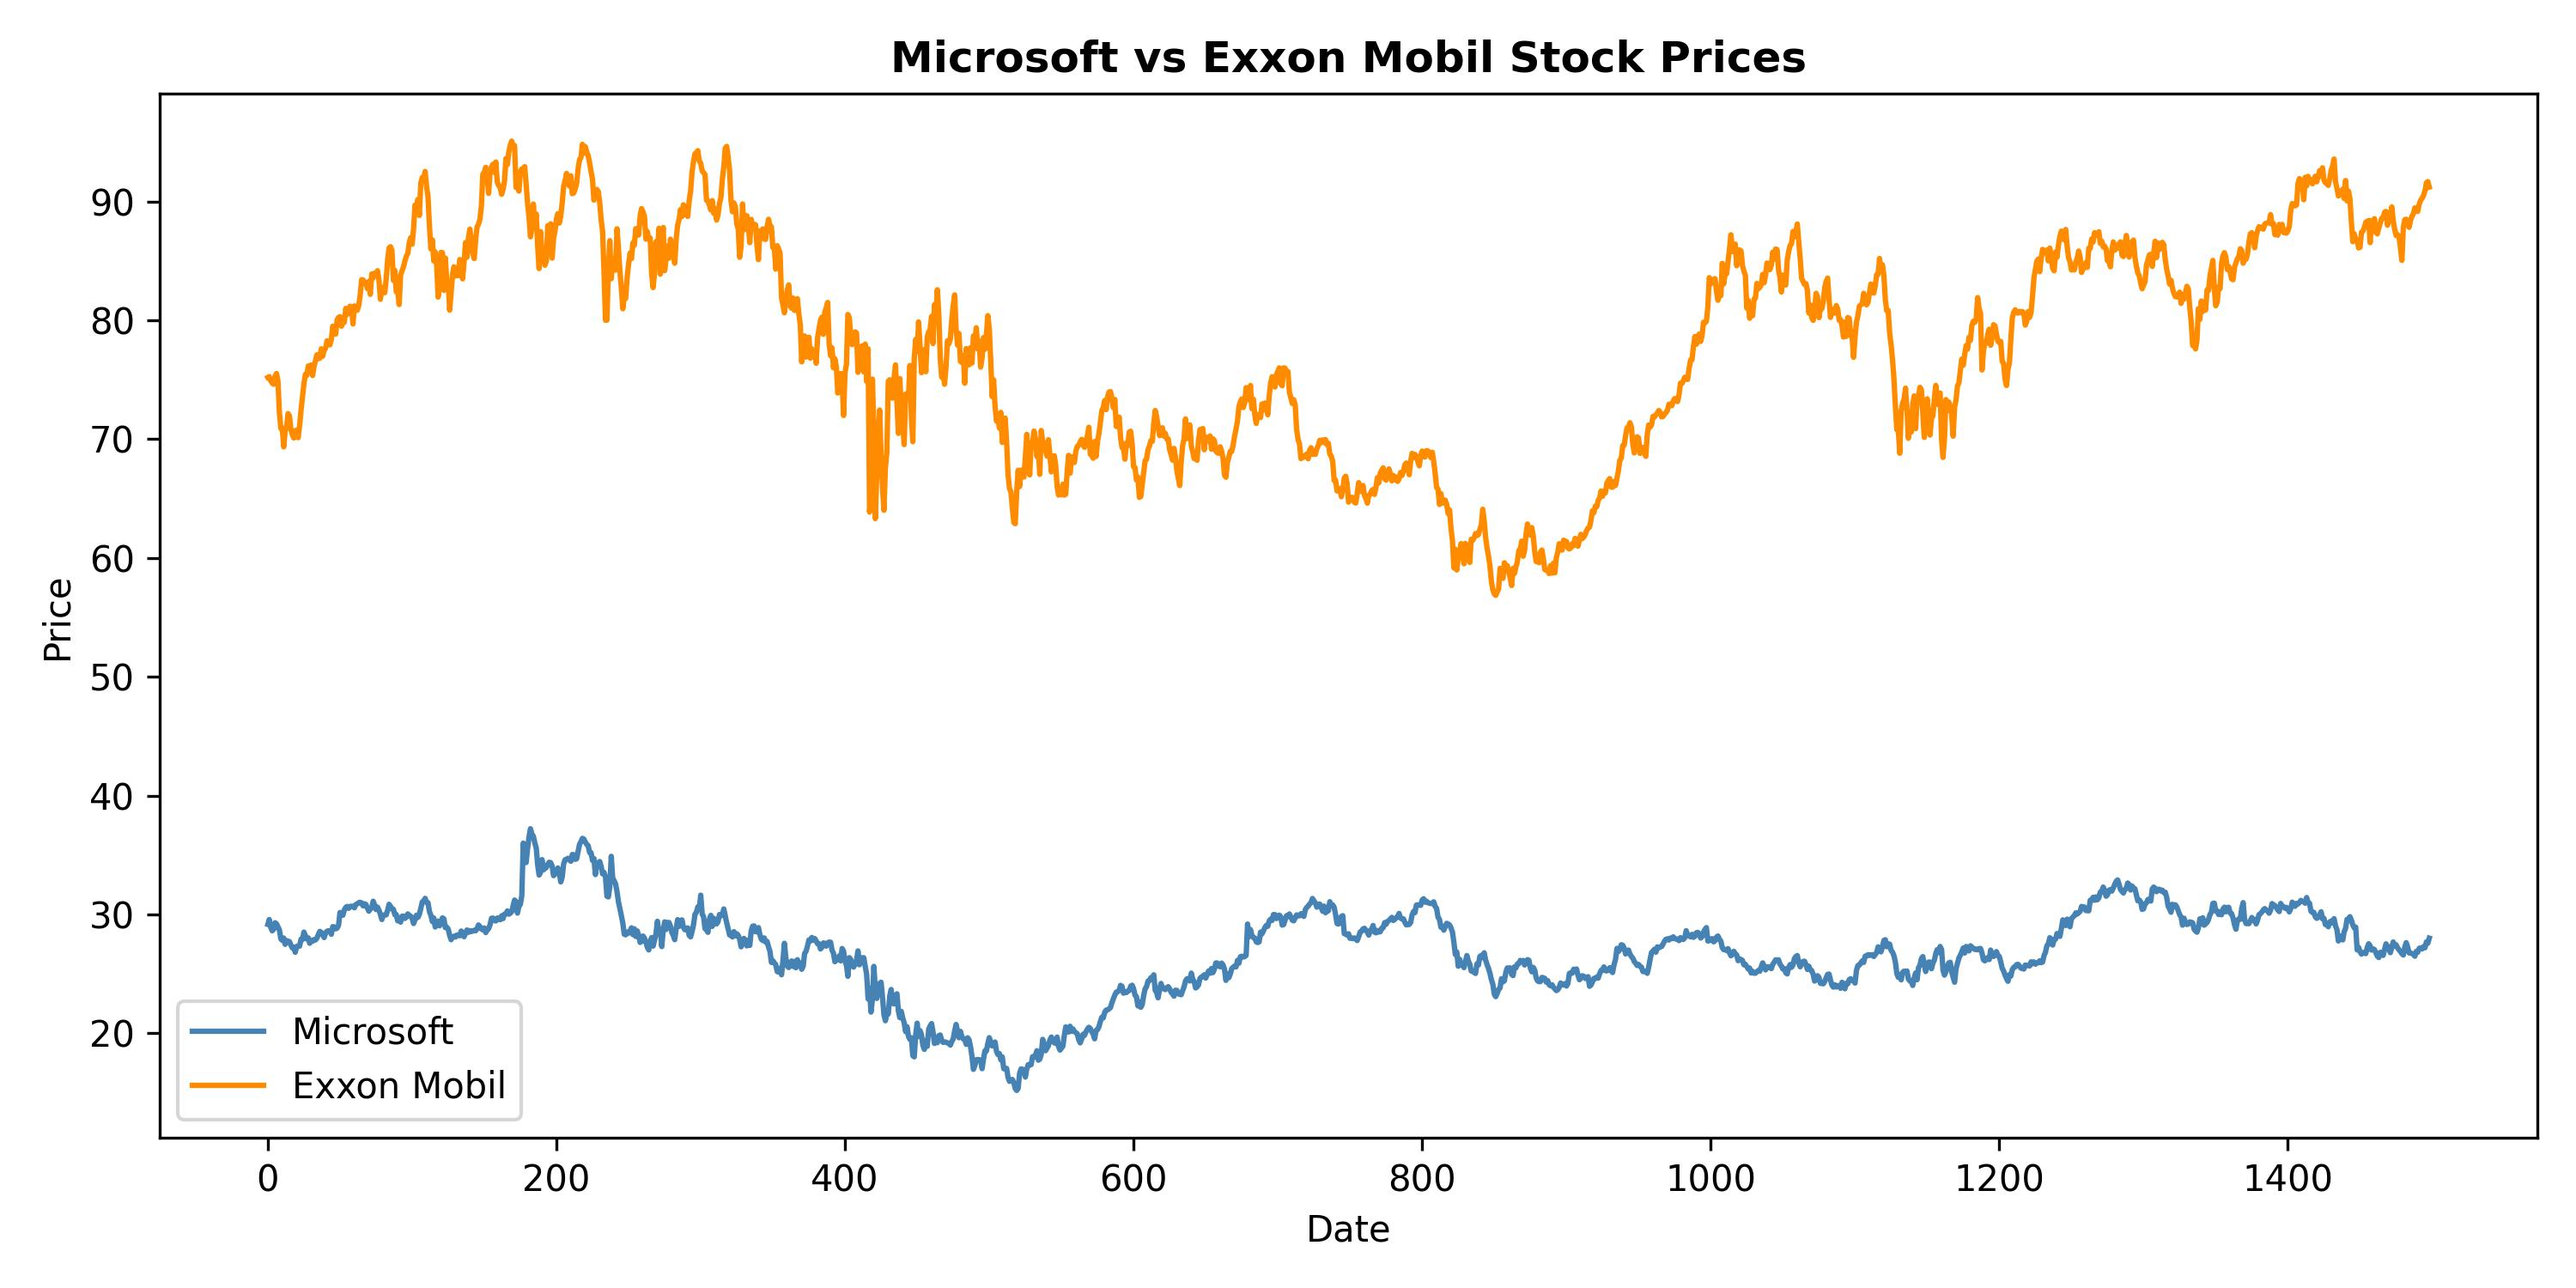
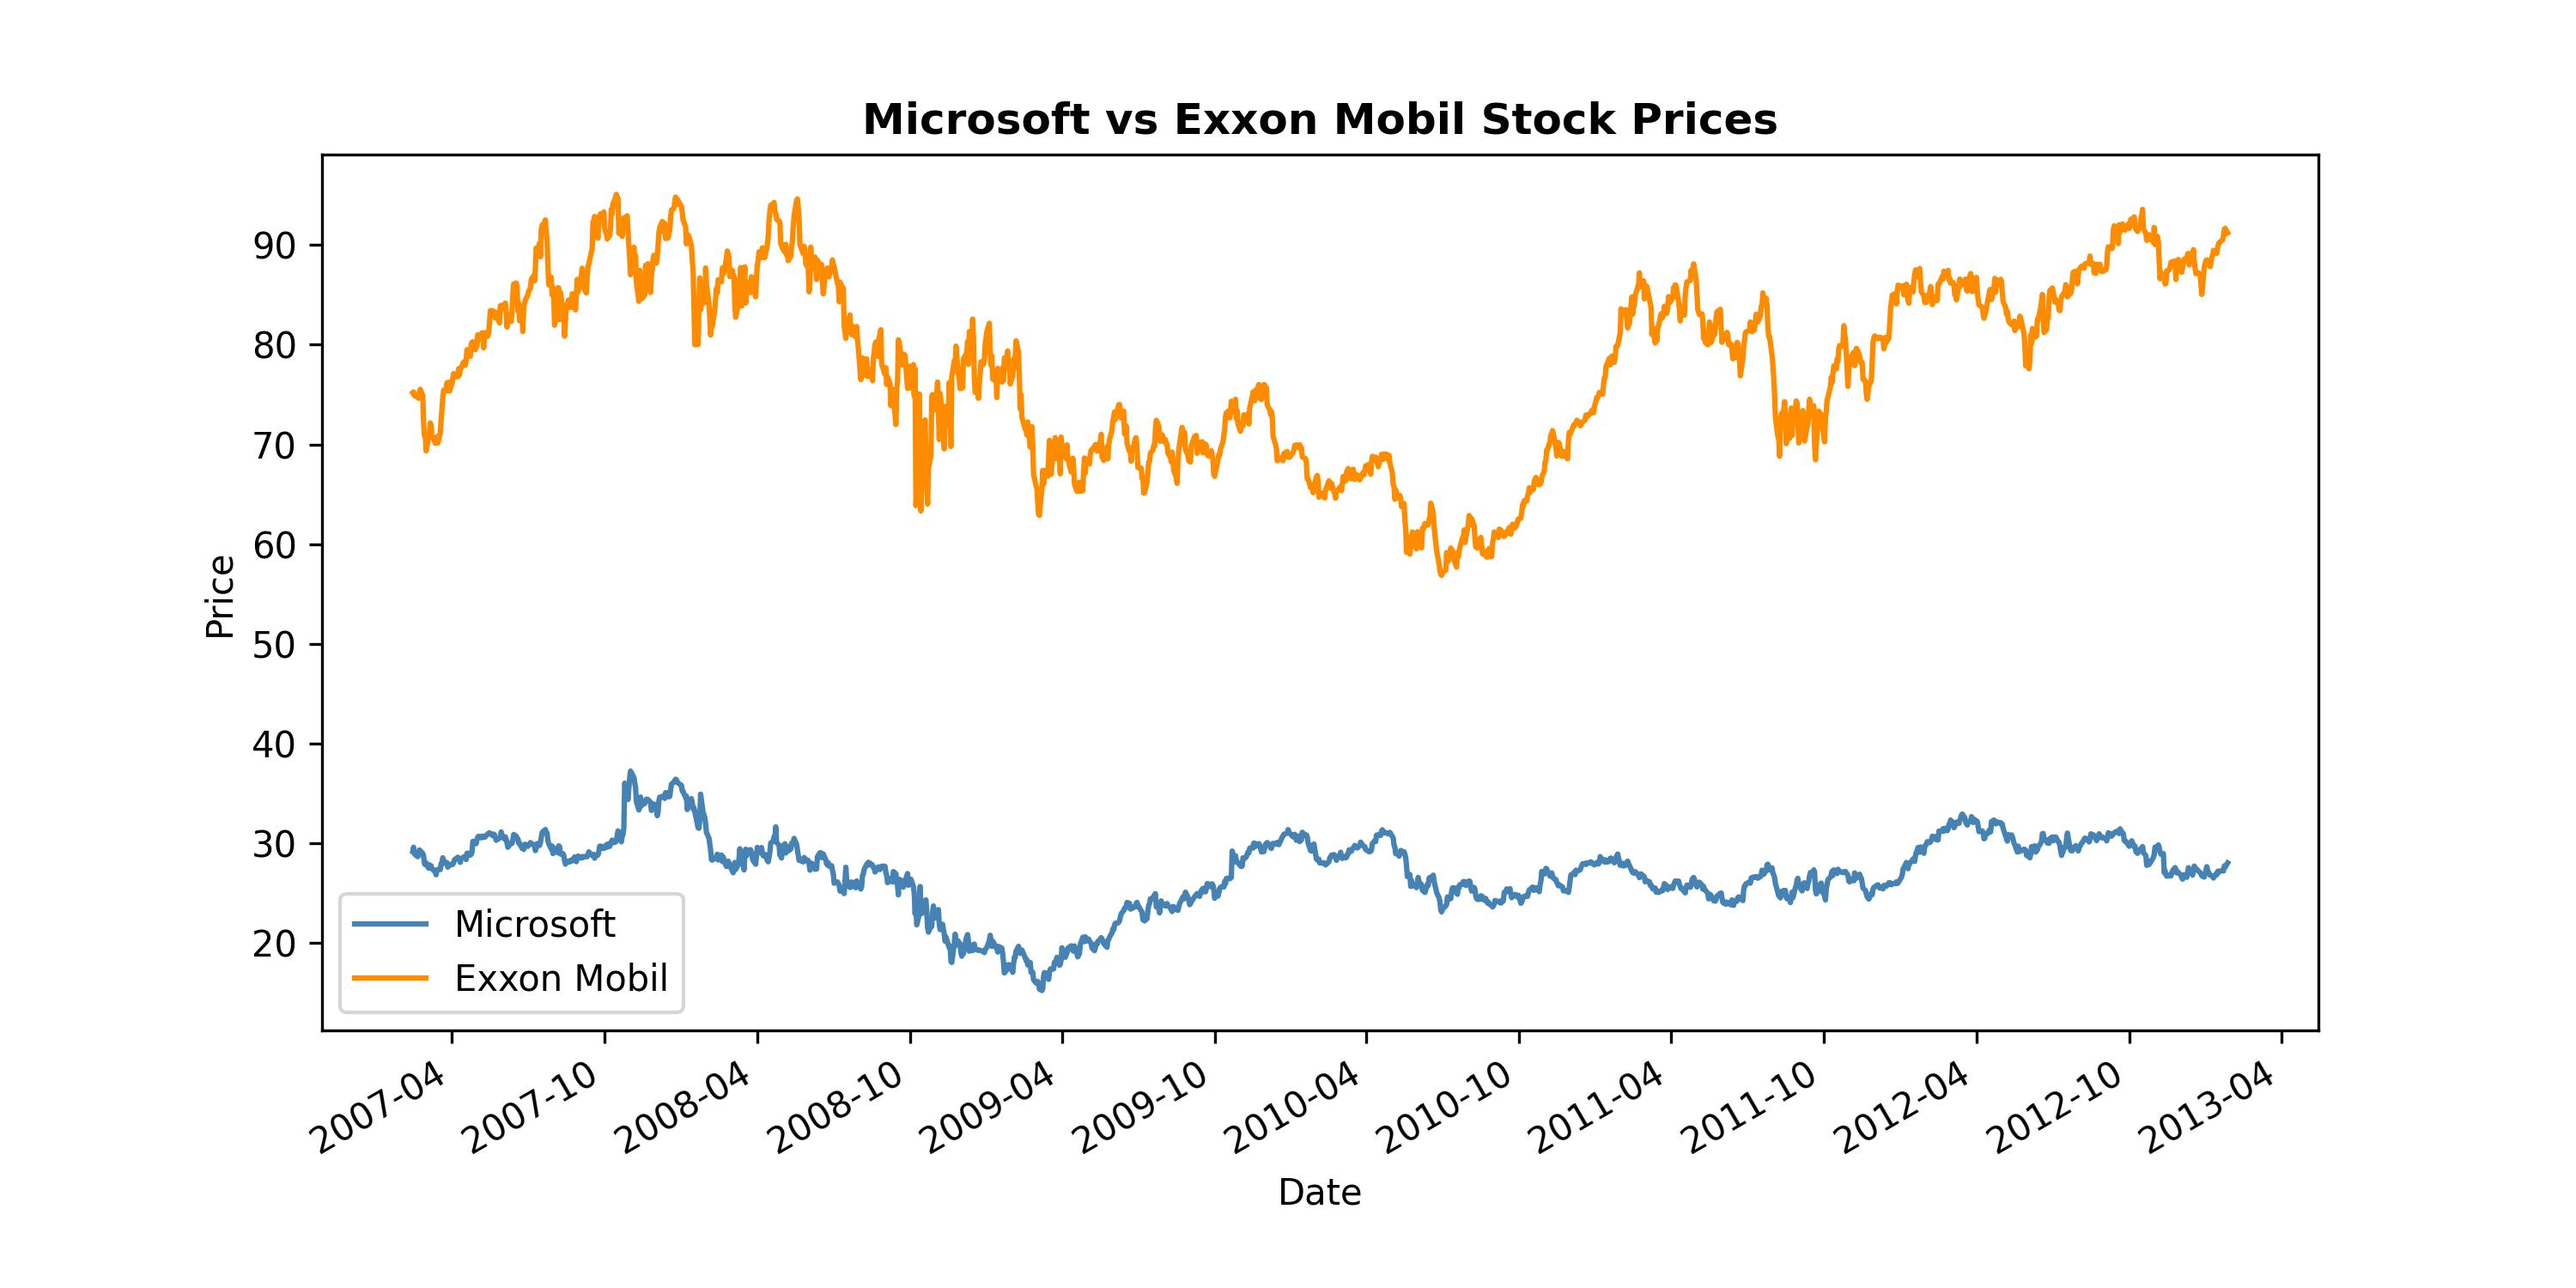
Add cointegration test
Add cointegration test to PartI Question4 and update the report.

diff --git a/3/TSDE_A3_Group19.py b/3/TSDE_A3_Group19.py
@@ -2,7 +2,6 @@ import numpy as np
 import pandas as pd
 import matplotlib.pyplot as plt
 import matplotlib.dates as mdates
-from scipy.stats import norm
 from scipy.stats import gaussian_kde
 from statsmodels.tsa.stattools import adfuller
 
@@ -418,72 +417,119 @@ def partI_question3():
     
     stock_df = stock_df.set_index('Stock_ID')  
     print(stock_df)
+
+def cointegrationTestDecision(inputDecision):
+    if inputDecision == 'Reject the null':
+        return 'Zt ∼I(0): cointegration between {Yt} and {Xt}'
+    else:
+        return 'Zt ∼I(1): No-cointegration between {Yt} and {Xt}'
+    
+def performADFCointegrationTest(input_deltaResiduals, input_Zt_list):
+    # estimate the ADF regression model
+    max_p = 12  # maximum lags
+    hat_beta_list = []
+    hat_residuals_list = []
+    se_beta_list = []
+    aic_list = []
+
+    for iterateP in range(1, max_p+1):
+        matrix_X, estimate_phi, hat_y, hat_residuals = runRegressionModel_ADF(input_delta_y=input_deltaResiduals, 
+                                                                              input_y=input_Zt_list.squeeze(),
+                                                                              input_p=iterateP)
+        
+        estimate_SE = getStandardError(matrix_X, hat_residuals)
+        beta_SE = estimate_SE[0]
+        se_beta_list.append(beta_SE)
+
+        lengthOfSeries = len(hat_residuals)
+        k = iterateP + 1
+        hat_beta_list.append(estimate_phi.iloc[0,0])
+        hat_residuals_list.append(hat_residuals)
+        
+        this_aic = getAIC(lengthOfSeries, k, hat_residuals.squeeze())
+        aic_list.append(float(this_aic))
+    
+    min_aic, final_p = getBestP(aic_list)
+    final_beta = hat_beta_list[final_p - 1]
+    final_residuals = hat_residuals_list[final_p - 1]
+    final_se = se_beta_list[final_p - 1]
+        
+    # compute the ADF test statistic under the null
+    adf_statistic = (final_beta) / final_se
+    print(f'ADF test statistic: {round(adf_statistic,3)}')
+
+    # perform the ADF-Conintegration test
+    decision = adf_test(0.1, adf_statistic, False)
+    cointegrated = cointegrationTestDecision(decision)
+    print(f'Conclusion regarding cointegration at ⍺ = 10%: {decision} and {cointegrated}')
     
 def partI_question4():
     print('\nQuestion 4:')
-    # Q4
-    def ols_manual(y, X):
-        """OLS t-test R^2"""
-        X = np.asarray(X)
-        y = np.asarray(y)
-        beta = np.linalg.inv(X.T @ X) @ X.T @ y
-        yhat = X @ beta
-        resid = y - yhat
-        n = len(y)
-        k = X.shape[1]
-        SSR = resid.T @ resid
-        sigma2 = SSR / (n - k)
-        var_beta = sigma2 * np.linalg.inv(X.T @ X)
-        se = np.sqrt(np.diag(var_beta))
-        t = beta / se
-        R2 = 1 - SSR / ((y - y.mean()) ** 2).sum()
-        return {'beta': beta, 'se': se, 't': t, 'R2': R2, 'resid': resid, 'SSR': SSR}
+    
+    msft_stock = part1Data[['DATE','MICROSOFT']]
+    msft_stock = msft_stock.set_index('DATE')
+    xom_stock = part1Data[['DATE','EXXON_MOBIL']]
+    xom_stock = xom_stock.set_index('DATE')
+    
+    # perform a regression of Y_t on X_t
+    matrix_X, estimate_beta, hat_y, hat_residuals_z = runRegressionModel(msft_stock.squeeze(), xom_stock.squeeze())
+    alpha_hat, beta_hat = estimate_beta.iloc[0,0],  estimate_beta.iloc[1,0]
+    
+    # compute general test statistics
+    estimate_SE = getStandardError(matrix_X, hat_residuals_z)
+    t_statistic = estimate_beta.iat[1,0] / estimate_SE[1]
+    rSquare = getRSquare(hat_residuals_z.squeeze(), xom_stock.squeeze())
 
-    y = part1Data['MICROSOFT'].values
-    x = part1Data['EXXON_MOBIL'].values
-    X = np.column_stack((np.ones(len(x)), x))
-    res = ols_manual(y, X)
+    print('\nRegression Result: MICROSOFT on EXXON_MOBIL ---')
+    print(f'α̂ = {estimate_beta.iat[0,0]:.3f}')
+    print(f'β̂ = {estimate_beta.iat[1,0]:.3f}')
+    print(f't(β) = {t_statistic:.3f}')
+    print(f'R² = {rSquare:.3f}')
 
-    print("\n Regression Result: MICROSOFT on EXXON_MOBIL ---")
-    print(f"α̂ = {res['beta'][0]:.4f}")
-    print(f"β̂ = {res['beta'][1]:.4f}")
-    print(f"t(β) = {res['t'][1]:.2f}")
-    print(f"R² = {res['R2']:.3f}")
-
+    # plot the stock prices of MSFT and XOM
     graphTitle = 'Microsoft vs Exxon Mobil Stock Prices'
     fileName = '4_price_msft_xom'
     
+    plot_x = pd.to_datetime(msft_stock.index, dayfirst=True, format='%d/%m/%Y')
+    
     plt.figure(figsize=(10,5))
-    plt.plot(part1Data.index, part1Data['MICROSOFT'], label = 'Microsoft', color = 'steelblue')
-    plt.plot(part1Data.index, part1Data['EXXON_MOBIL'], label = 'Exxon Mobil', color = 'darkorange')
+    plt.plot(plot_x, msft_stock, label = 'Microsoft', color = 'steelblue')
+    plt.plot(plot_x, xom_stock, label = 'Exxon Mobil', color = 'darkorange')
     plt.title(graphTitle, fontweight='bold')
     plt.xlabel("Date")
     plt.ylabel("Price")
+    
+    # Set n-month ticks on the x-axis
+    plt.gca().xaxis.set_major_locator(mdates.MonthLocator(interval=6))
+    plt.gca().xaxis.set_major_formatter(mdates.DateFormatter('%Y-%m'))
+    # Auto-format date labels (avoid overlapping)
+    plt.gcf().autofmt_xdate()
+    
     plt.legend()
-    plt.tight_layout()
     plt.savefig(f'../3/figures/{fileName}.jpeg', dpi=300)
     plt.show()
-
-    x = part1Data['EXXON_MOBIL'].values
-    y = part1Data['MICROSOFT'].values
-    X = np.column_stack((np.ones(len(x)), x))
-    res = ols_manual(y, X) 
-    yhat = X @ res['beta']
 
     graphTitle = 'Microsoft vs Exxon Mobil (Level Regression)'
     fileName = '4_scatter_msft_xom'
     
-    # Scatter Regression
-    plt.figure(figsize=(7,5))
-    plt.scatter(x, y, alpha=0.5, label="Observed")
-    plt.plot(x, yhat, color='red', label="Fitted line")
+    # plot the scatter plot with OLS regression line
+    plt.figure(figsize=(6,6))
+    plt.scatter(xom_stock.squeeze(), msft_stock.squeeze(), alpha=0.5, label="Observed")
+    plt.plot(xom_stock.squeeze(), hat_y.squeeze(), color='red', label="Fitted line")
     plt.title(graphTitle, fontweight='bold')
-    plt.xlabel("Exxon Mobil Stock Price")
-    plt.ylabel("Microsoft Stock Price")
+    plt.xlabel('Exxon Mobil Stock Price')
+    plt.ylabel('Microsoft Stock Price')
     plt.legend()
     plt.tight_layout()
     plt.savefig(f'../3/figures/{fileName}.jpeg', dpi=300)
     plt.show()
+
+    print(f'\nCointegration regression: MSFT = {alpha_hat: .3f} + {beta_hat: .3f} * XOM')
+    
+    # diﬀerencing of Z_t
+    differenceResiduals = np.diff(hat_residuals_z.squeeze())
+    
+    performADFCointegrationTest(input_deltaResiduals=differenceResiduals, input_Zt_list=hat_residuals_z)
     
 partI_question1()
 partI_question2()
@@ -533,12 +579,6 @@ def monteCarlo_Cointegrated(input_B, input_t, input_phi, input_corr):
         this_lambda_list.append(estimate_lambda)
     
     return this_beta_list, this_t_list, this_RSquare_list, this_lambda_list
-
-def cointegrationTest(inputDecision):
-    if inputDecision == 'Reject the null':
-        return 'Zt ∼I(0): cointegration between {Yt} and {Xt}'
-    else:
-        return 'Zt ∼I(1): No-cointegration between {Yt} and {Xt}'
 
 def partII_question1():
     time_list = [100, 500, 1000]
@@ -668,43 +708,7 @@ def partII_question3():
     # diﬀerencing of Z_t
     differenceResiduals = np.diff(hat_residuals_z.squeeze())
     
-    # estimate the ADF regression model
-    max_p = 12  # maximum lags
-    hat_beta_list = []
-    hat_residuals_list = []
-    se_beta_list = []
-    aic_list = []
-
-    for iterateP in range(1, max_p+1):
-        matrix_X, estimate_phi, hat_y, hat_residuals = runRegressionModel_ADF(input_delta_y=differenceResiduals, 
-                                                                              input_y=hat_residuals_z.squeeze(),
-                                                                              input_p=iterateP)
-        
-        estimate_SE = getStandardError(matrix_X, hat_residuals)
-        beta_SE = estimate_SE[0]
-        se_beta_list.append(beta_SE)
-
-        lengthOfSeries = len(hat_residuals)
-        k = iterateP + 1
-        hat_beta_list.append(estimate_phi.iloc[0,0])
-        hat_residuals_list.append(hat_residuals)
-        
-        this_aic = getAIC(lengthOfSeries, k, hat_residuals.squeeze())
-        aic_list.append(float(this_aic))
-    
-    min_aic, final_p = getBestP(aic_list)
-    final_beta = hat_beta_list[final_p - 1]
-    final_residuals = hat_residuals_list[final_p - 1]
-    final_se = se_beta_list[final_p - 1]
-        
-    # compute the ADF test statistic under the null
-    adf_statistic = (final_beta) / final_se
-    print(f'ADF test statistic: {round(adf_statistic,3)}')
-
-    # perform the ADF-Conintegration test
-    decision = adf_test(0.1, adf_statistic, False)
-    cointegrated = cointegrationTest(decision)
-    print(f'Conclusion regarding cointegration at the ⍺ = 10%: {decision} and {cointegrated}')
+    performADFCointegrationTest(input_deltaResiduals=differenceResiduals, input_Zt_list=hat_residuals_z)
 
 def partII_question4():
     print('\nQuestion 4:')
